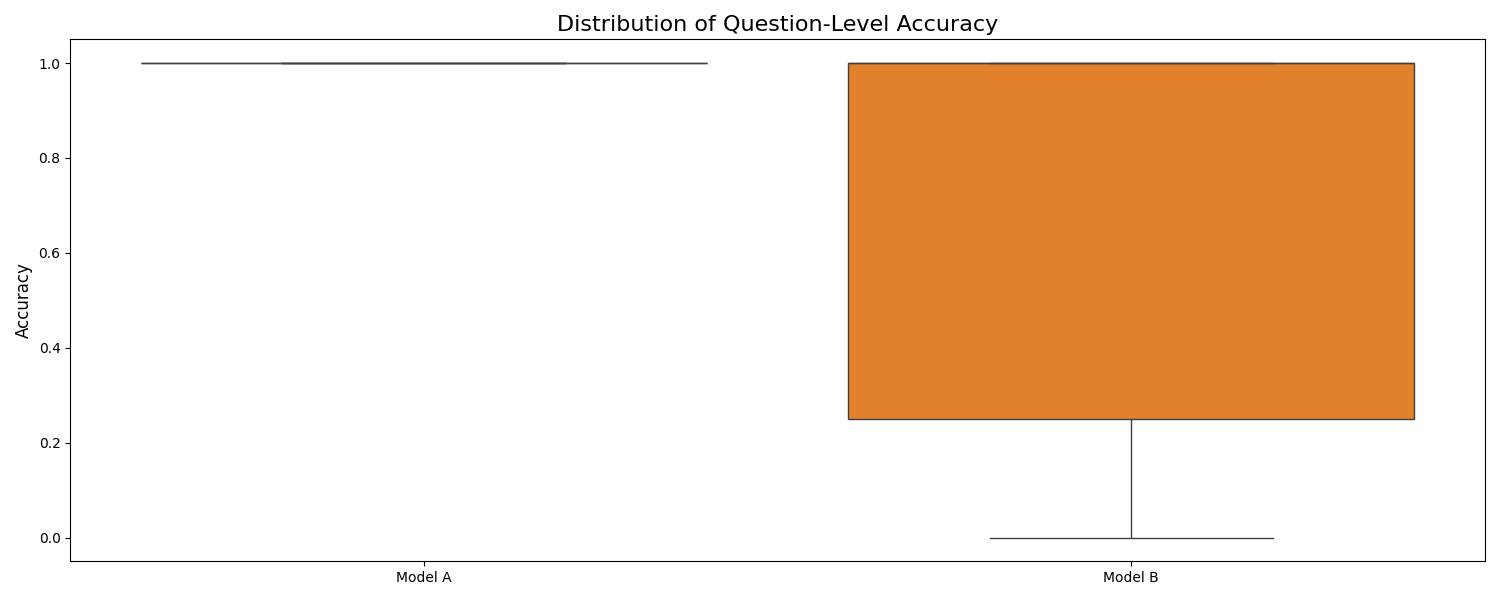
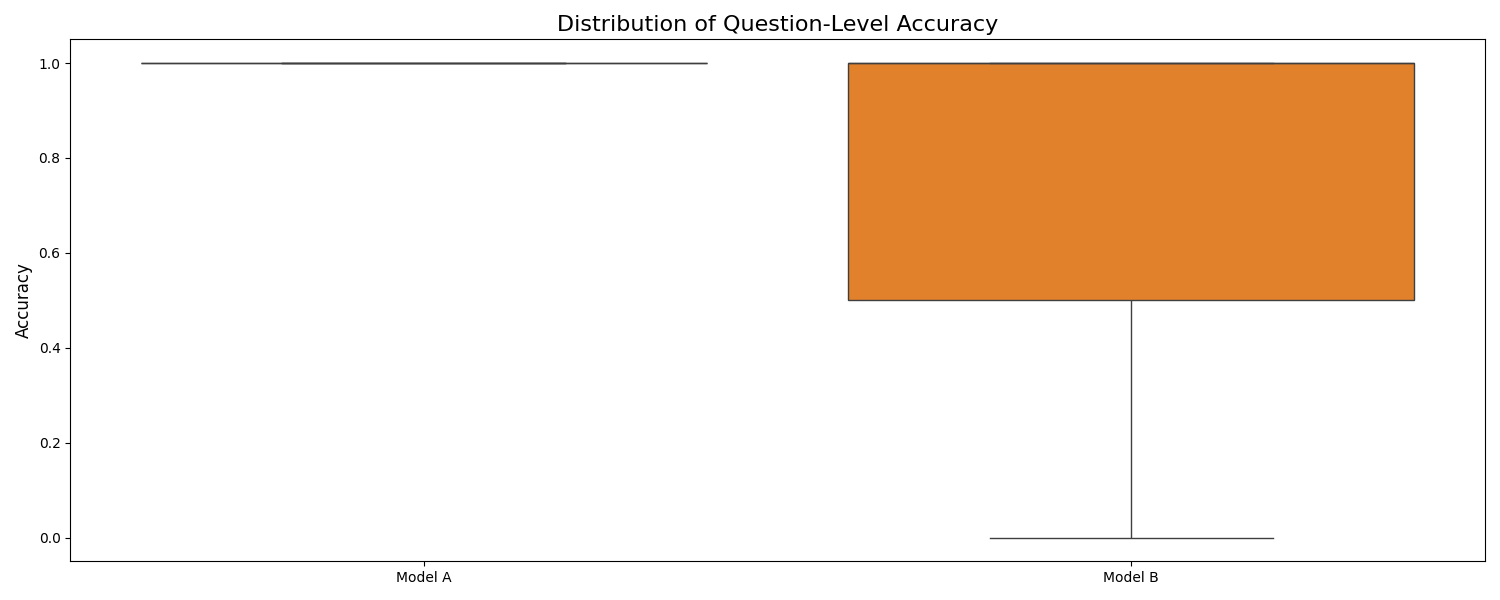
fix: structure JSON format for paragraphs, questions, and model responses with metadata

Changed region(s): [[0.552, 0.48, 0.9507, 0.72]]

diff --git a/visualizations/reports/model_comparison_report.md b/visualizations/reports/model_comparison_report.md
@@ -1,10 +1,10 @@
 # Model Performance Comparison Report
 
 ## Performance Summary
-| Model   |   accuracy |   precision |   recall |   f1_score |   total_correct |   total_questions |      mcc |    kappa |
-|:--------|-----------:|------------:|---------:|-----------:|----------------:|------------------:|---------:|---------:|
-| Model A |   1        |           1 |      1   |       1    |               6 |                 6 | 1        | 1        |
-| Model B |   0.666667 |           1 |      0.6 |       0.75 |               4 |                 6 | 0.447214 | 0.333333 |
+| Model   |   accuracy |   precision |   recall |   f1_score |   total_correct |   total_questions |   mcc |   kappa |
+|:--------|-----------:|------------:|---------:|-----------:|----------------:|------------------:|------:|--------:|
+| Model A |   1        |           1 |      1   |   1        |               3 |                 3 |   1   |     1   |
+| Model B |   0.666667 |           1 |      0.5 |   0.666667 |               2 |                 3 |   0.5 |     0.4 |
 
 ## Question-Level Breakdown
 ### Question 1: Does it mention pricing?
@@ -21,19 +21,4 @@
 - **Ground Truth:** True
 - **Model A Response:** True (Correct)
 - **Model B Response:** False (Incorrect)
-
-### Question 4: Does it mention 5G?
-- **Ground Truth:** True
-- **Model A Response:** True (Correct)
-- **Model B Response:** True (Correct)
-
-### Question 5: Are color options discussed?
-- **Ground Truth:** True
-- **Model A Response:** True (Correct)
-- **Model B Response:** False (Incorrect)
-
-### Question 6: Is pricing mentioned?
-- **Ground Truth:** True
-- **Model A Response:** True (Correct)
-- **Model B Response:** True (Correct)
 
